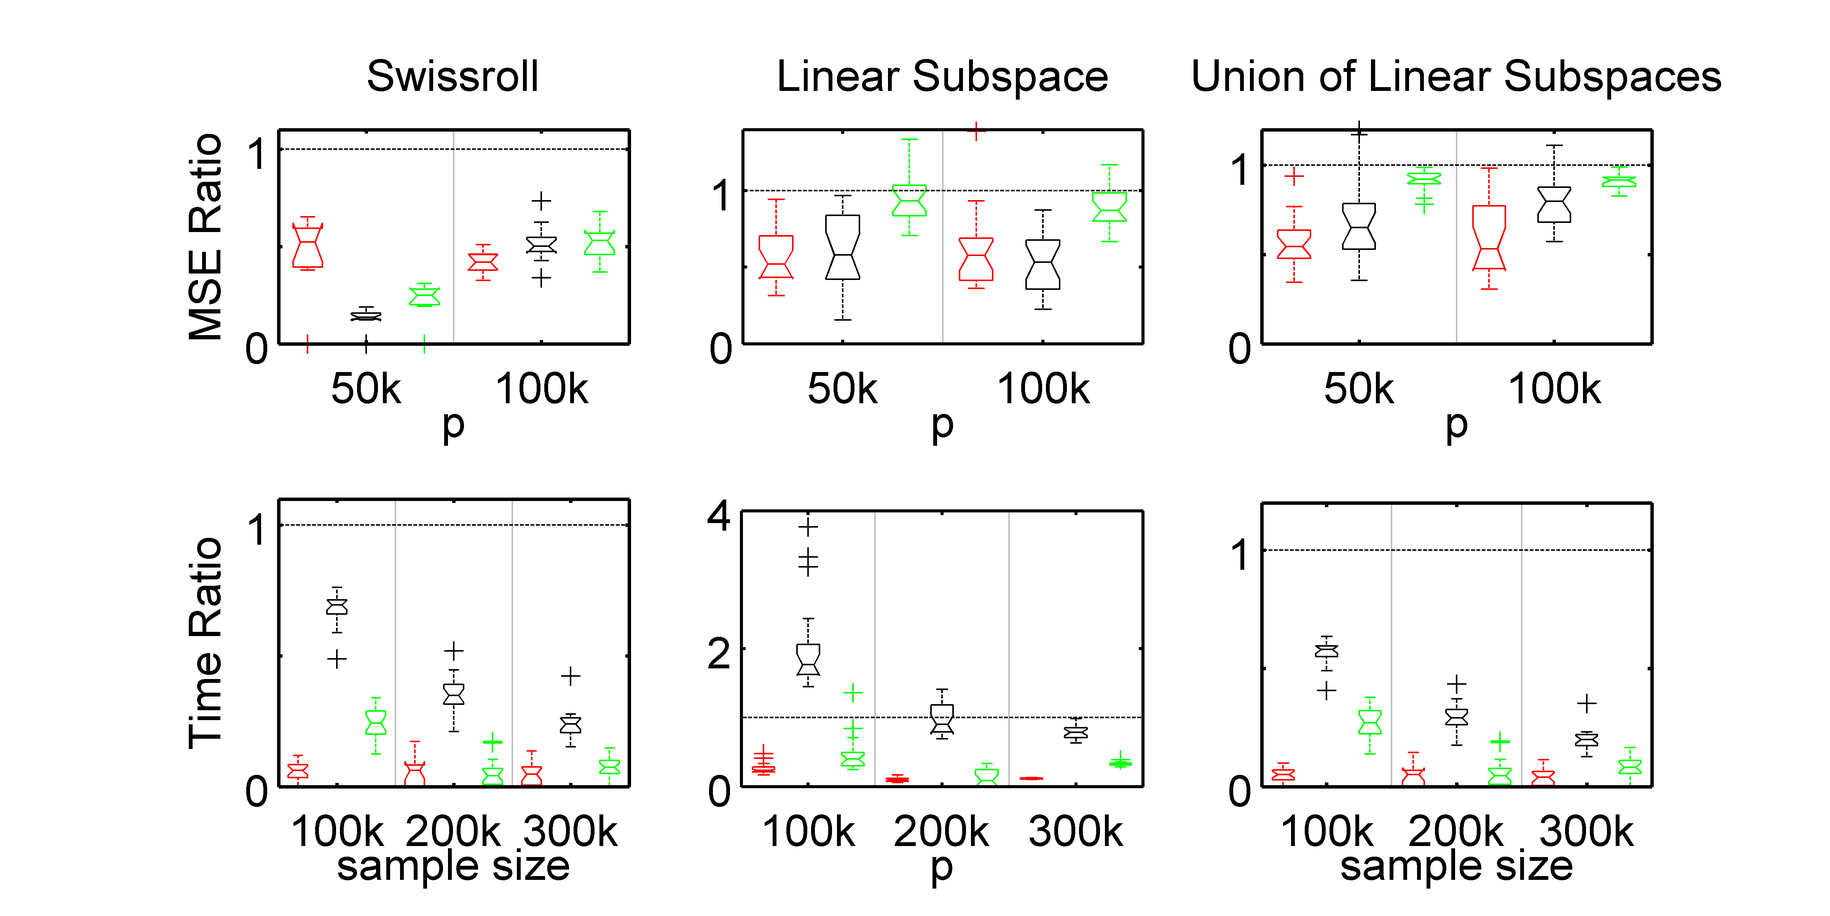
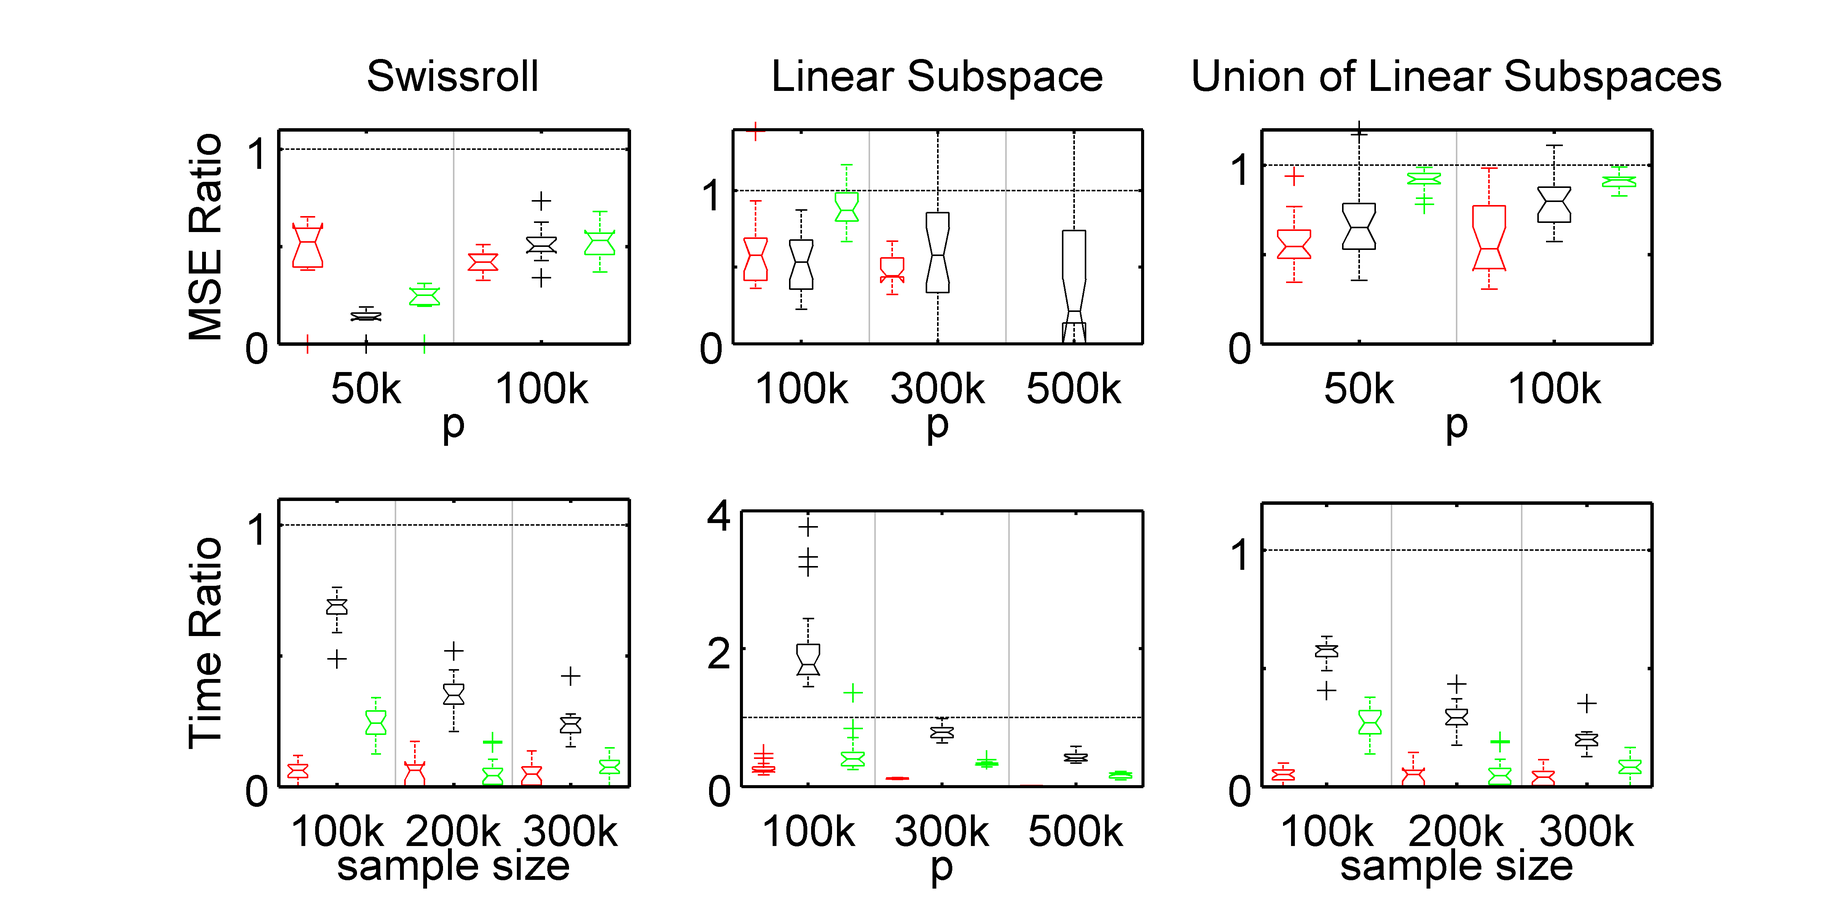
incorporated fracy comments, updated fig

diff --git a/nips/nipsMSB_dd.tex b/nips/nipsMSB_dd.tex
@@ -120,7 +120,7 @@ In fact, a significant downside of many divide-and-conquer algorithms is their p
 Let $X \from \Omega \to \mc{X} \subseteq \Real^p$ be a 
 $p$-dimensional Euclidean vector-valued predictor random variable, taking values $x \in \mc{X}$, with a marginal probability distribution $F_X$.  
 Similarly, let $Y \from \Omega \to \mc{Y}$ 
-be a $\mc{Y}$-valued target random variable, taking values $y \in \mc{Y}$, with a marginal probability distribution $F_Y$ (we will specify specific forms of $\mc{Y}$, e.g., $\mc{Y} \subseteq \Real^q$, below).  We assume that the pair $(X,Y)$ is sampled from a joint distribution, $F_{X,Y} \in \mc{F}$.
+be a $\mc{Y}$-valued target random variable, taking values $y \in \mc{Y}$, with a marginal probability distribution $F_Y$ (we will specify specific forms of $\mc{Y}$, e.g., $\mc{Y} \subseteq \Real^q$, below).  We assume that the pair $(X,Y)$ is sampled from a joint distribution, $F_{X,Y} \in \mc{F}$. Let $F_{Y|X}$ denote the conditional distribution, and $f_{y|x}$ denote the conditional density.
 
 For inferential expedience, we  posit the existence of  a latent random variable $\mb{\eta} \from \Omega \to \mc{M} \subseteq \mc{X}$, where $\mc{M}$ is only $d$ ``dimensional'' and $d \ll p$.   
 Note that $\mc{M}$ need not be a linear subspace of $\mc{X}$, rather, $\mc{M}$ could be, for example,  a union or affine subspaces, or a smooth compact Riemannian manifold.  Regardless of the nature of $\mc{M}$, we assume that we can approximately decompose the joint distribution as follows,  $F_{X,Y,\mb{\eta}}=F_{X,Y|\mb{\eta}}F_{\mb{\eta}} = F_{Y|X, \mb{\eta}} F_{X | \mb{\eta}} F_{\mb{\eta}} \approx F_{X|\mb{\eta}} F_{Y|\mb{\eta}} F_{\mb{\eta}}$.  In  words, we assume that the \emph{signal} approximately concentrates around a low-dimensional latent space, $F_{Y|X,\mb{\eta}}=F_{Y|\mb{\eta}}$.  Note that this is a much less restrictive assumption than the commonplace assumption in manifold learning that the marginal distribution $F_X$ concentrates around a low-dimensional latent space. 
@@ -164,11 +164,16 @@ Let $(\mc{W},\rho_W, F_W)$ be a measurable metric space, where $F_W$ is a Borel 
 
 Let $A_{j,k}=\{k' \in \mc{K}_{j'} : j' < j$ s.t. $C_{j,k} \subseteq C_{j',k'}\}$ denote the ancestors of $C_{j,k}$, and let $D_{j,k}=\{k' \in \mc{K}_{j'} : j' > j$ s.t. $C_{j',k'} \subseteq C_{j,k}\}$ denote the descendants of $C_{j,k}$.
 % Figure \ref{graph}(i) depicts a binary tree decomposition for some data (note that the tree need not be binary). 
-The result of this partitioning is that we can approximate $F_{Y|X}$ at each scale $j$ via a mixture over densities, $\mh{F}^j_{Y|X} \propto \sum_{k \in \mc{K}_j} \pi_{j,k} \mh{F}^{j,k}_{Y|X}$. 
-% \dd{change in \begin{equation}F_{Y|X} \approx \mh{F}_{Y|X}= \sum_{j \in \ZZ} \pi_{j,k_j(X)} \mh{F}_{j,k_j(X)} \label{eq:base}\end{equation}}. 
+In classical multiscale function estimation, at each scale, we would approximate the function via a mixture: $\mh{F}_j = \sum_{k \in \mc{K}_j} \omega_{j,k} \mh{F}_{j,k}$, where the $\{\omega_{j,k}\}_{j \in \mc{K}_j}$ are mixture weights \emph{within} a scale, such that $\sum_{k \in \mc{K}_j} \omega_{j,k}=1$.  Rather than choosing a scale, however, given a new observation, one can also mix \emph{across scales},  by placing a prior over scales.  In such a case, given a new observation $x$ for which we would like an estimate of $f_{y|x}$, we have the following approximation 
+\begin{align}
+\mh{f}_{y|x} \approx \sum_{C_{j',k'} \in A_{j,k}} \pi_{j',k'} f^{j',k'}_{y|x}	
+\end{align}
+where $\pi_{j',k'}$ are weights \emph{across scales} such that $\sum_{C_{j',k'} \in A_{j,k}} \pi_{j',k'}=1$.  Note that this latter approach is a generalization of the former, in that one could simply set the $\pi_{j,k}$'s to have unity mass at some $j$ for each scale and zero elsewhere, resulting in choosing a particular scale.
+
+ 
 
 \paragraph{Embeddings}
-At each scale, for each cell, we consider some embedding $\psi_{j,k} \from C_{j,k} \to \Xi$, where $(\mt{x},\mt{y}) \in (\mtc{X}, \mtc{Y})$.  Thus, rather than approximating $F_{Y|X}$ by a mixture of densities conditional on high-dimensional predictors, we can approximate $F_{Y|X}$ by a mixture of densities conditional on low-dimensional embeddings,  $F_{Y|X} \approx \mh{F}_{Y|X} \propto \sum_{j \in \ZZ, k \in \mc{K}_j} \pi_{j,k} \mt{F}^{j,k}$, where $\mt{y} | \mt{x} \sim \mt{F}^{j,k}$. 
+At each scale, for each cell, we consider some embedding $\psi_{j,k} \from C_{j,k} \to \Xi$, where $(\mt{x},\mt{y}) \in (\mtc{X}, \mtc{Y})$.  Thus, rather than approximating $F_{Y|X}$ by a mixture of densities conditional on high-dimensional predictors, we can approximate $F_{Y|X}$ by a mixture of densities conditional on low-dimensional embeddings. %,  $F_{Y|X} \approx \mh{F}_{Y|X} \propto \sum_{j \in \ZZ, k \in \mc{K}_j} \pi_{j,k} \mt{F}^{j,k}$, where $\mt{y} | \mt{x} \sim \mt{F}^{j,k}$. 
 
 \paragraph{Family} Each $\mt{F}^{j,k}$ is an element of a family of distributions, $\mc{F}^{j,k}$.  This family might be quite general, e.g., all possible conditional densities, or quite simple, e.g., Gaussian distributions.  Moreover, the family can adapt with $j$ or $k$, being more complex at the coarser scales (for which $n_{j,k}$'s are larger), and simpler for the finer scales (or partitions with fewer samples).
 
@@ -253,25 +258,29 @@ In order to assess the predictive performance of the proposed model, we consider
 
 \textbf{(1) Nonlinear Mixture}
 %
-We first consider a relatively simple yet nonlinear joint model:
-\begin{subequations}
-\begin{align}
-	Y|\eta &\sim   |\eta| \mc{N}(\mu_1,\sigma_1) + (1-|\eta|) \mc{N}(\mu_2,\sigma_2), \\
-	X_r|\eta  &\sim \mc{N}(\eta, \sigma_x), \qquad r \in \{1, 2, \ldots, p\}, \\
-	\eta  &\sim \sin(U(0,c)). %, \qquad \text{ where } \theta \sim U(0,1).
-\end{align}
-\end{subequations}
+We first consider a relatively simple yet nonlinear joint model, with a conditional Gaussian distribution
+	\mbox{$Y|\eta \sim  |\eta| \mc{N}(\mu_1,\sigma_1) + (1-|\eta|) \mc{N}(\mu_2,\sigma_2)$}, 
+	a marginal distribution for each dimension of $X$, $X_r|\eta  \sim \mc{N}(\eta, \sigma_x)$, 
+	$r \in \{1, 2, \ldots, p\}$, 
+	and a uniform distribution over the latent manifold $\eta  \sim \sin(U(0,c))$. %, \qquad \text{ where } \theta \sim U(0,1).
+% \begin{subequations}
+% \begin{align}
+% 	Y|\eta &\sim   |\eta| \mc{N}(\mu_1,\sigma_1) + (1-|\eta|) \mc{N}(\mu_2,\sigma_2), \\
+% 	X_r|\eta  &\sim \mc{N}(\eta, \sigma_x), \qquad r \in \{1, 2, \ldots, p\}, \\
+% 	\eta  &\sim \sin(U(0,c)). %, \qquad \text{ where } \theta \sim U(0,1).
+% \end{align}
+% \end{subequations}
 In the simulations we let $(\mu_1,\sigma_1)=(-2,1)$, $(\mu_2,\sigma_2)=(2,1)$, $\sigma_x=0.01$, and $c=20$, and $p=1000$. Thus, $F_{Y|X}$ is a highly nonlinear function of $X$, and even $\eta$, and $X$ is high-dimensional.  
 
 % \vspace{-8pt}
 \textbf{(2) Swissroll} 
 % 
-We then return to the swissroll example of Figure \ref{fig:swiss}; here we let $(\mu,\sigma)=(\eta,1)$ and   $p \in 1000 \times \{50, 100\}$.
+We then return to the swissroll example of Figure \ref{fig:swiss}; in Figure \ref{fig:boxplots} we show results for $(\mu,\sigma)=(\eta,1)$. % and   $p \in 1000 \times \{50, 100\}$.
 
 \textbf{(3) Linear Subspace} Letting $\Gamma \in \Real^{p+1 \times q}$ and $\Theta$ be an ${q \times d}$ ``diagonal'' matrix (meaning all entires other than the first $d < q$ elements of the diagonal are zero), we assume the following model:
 	$Y,X |\eta \sim \mc{N}_{p+1}(\Gamma \Theta \eta ,\Sigma_0)$,
 	where 	$\Gamma \sim \mc{S}_{p+1,d}$ indicates $\Gamma$ is uniformly sampled from the set of all orthonormal $d$ frames in $\Real^{p+1}$ (a Stiefel manifold), 
-	$\theta_{ii} \sim \mc{IG}(a_\theta,b_\theta) \text{ for } i \in \{1, \ldots, d\}$ and all other elements of $\Theta$ are zero, and $\eta  \sim \mc{N}_d(0, I)$.  In the simulation, we let $q=d=5$,   $(\alpha_\theta,\beta_\theta)=(\dd{??},\dd{??})$, and $p \in 1000 \times \{50, 70, 90, 100, 200, 300, 500\}$.
+	$\theta_{ii} \sim \mc{IG}(a_\theta,b_\theta) \text{ for } i \in \{1, \ldots, d\}$ and all other elements of $\Theta$ are zero, and $\eta  \sim \mc{N}_d(0, I)$.  In the simulation, we let $q=d=5$,   $(\alpha_\theta,\beta_\theta)=(\dd{??},\dd{??})$. %, and $p \in 1000 \times \{50, 70, 90, 100, 200, 300, 500\}$.
 
 
 % \vspace{-8pt}
@@ -279,7 +288,7 @@ We then return to the swissroll example of Figure \ref{fig:swiss}; here we let $
 This model is a direct extension of the linear subspace model, as it is a union of subspaces. We let the dimensionality of each subspace vary to demonstrate the generality of our procedure.  Specifically, we assume 	$Y,X |\eta \sim \sum_{g=1}^G \omega_g \mc{N}_{p+1}(\Gamma_g \Theta_g \eta ,\Sigma_0)$, $\omega \sim Dirichlet(\mb{\alpha})$ 
 	$\eta \sim \mc{N}_d(0, I)$, 
 where $\Gamma \sim \mc{S}_{p+1,g}$ and $\Theta_g$ is a ``diagonal'' with $\theta_{ii} \sim \mc{IG}(a_g,b_g)$ for  $i \in \{1, \ldots, g\}$, and the remaining elements of $\Theta$ are zero.
-In the simulation, we let $G=5$,  $\mb{\alpha}=(1, \ldots, 1)\T$,  $(\alpha_g,\beta_g)=(\alpha_\theta,\beta_\theta)$ as above, for  $p \in 1000 \times \{50, 100\}$.
+In the simulation, we let $G=5$,  $\mb{\alpha}=(1, \ldots, 1)\T$,  $(\alpha_g,\beta_g)=(\alpha_\theta,\beta_\theta)$ as above. %, for  $p \in 1000 \times \{50, 100\}$.
   
 % \vspace{-8pt}
 
@@ -291,7 +300,7 @@ We assessed the predictive performance of the proposed method on two very differ
 
 In the first experiment we investigated the extent to which we could predict creativity (as measured via the Composite Creativity Index \cite{Arden2010}).   For each subject, we estimate a $70$ vertex undirected weighted brain-graph using the Magnetic Resonance Connectome Automated Pipeline \cite{MRCAP11} from diffusion tensor imaging data \cite{Mori2006}. Because our graphs are undirected and lack self-loops, we have a total of $p=\binom{70}{2}=2,415$ potential weighted edges. The vector of covariates consists in the logarithm of the total number of connections between all pairs of cortical regions. 
 
-The second dataset comes from a resting-state functional magnetic resonance experiment as part of the Autism Brain Imaging Data Exchange \cite{Autism}.  We selected the Yale Child Study Center for analysis.  Each brain-image was processed using the Configurable Pipepline for Analysis of Connectomes \cite{cpac}. For each subject we computed a measure of normalized power at each voxel called fALFF \cite{Zou2008}.  To ensure the existence of nonlinear signal relating these predictors, we let $y_i$ correspond to an estimate of overall head motion in the scanner, called mean framewise displacement (FD) computed as described in Power et al. \cite{power}. In total, there were $p=10^6$  voxels.
+The second dataset comes from a resting-state functional magnetic resonance experiment as part of the Autism Brain Imaging Data Exchange \cite{Autism}.  We selected the Yale Child Study Center for analysis.  Each brain-image was processed using the Configurable Pipepline for Analysis of Connectomes \cite{cpac}. For each subject we computed a measure of normalized power at each voxel called fALFF \cite{Zou2008}.  To ensure the existence of nonlinear signal relating these predictors, we let $y_i$ correspond to an estimate of overall head motion in the scanner, called mean framewise displacement (FD) computed as described in Power et al. \cite{power}. In total, there were $p=902,629$ voxels. 
 
 \subsection{Evaluation Criteria}
 
@@ -302,13 +311,14 @@ For each simulation scenario, we sampled multiple datasets and compute the \emph
 All experiments were performed on a typical workstation, Intel Core i7-2600K Quad-Core Processor with  8192 MB of RAM.
 
 
+
 \section{Results}
 
 \subsection{Illustrative Example} \label{sub:ill}
 
-The middle and right panels of Figure \ref{fig:swiss} depict the quality of partitioning and density estimation for the swissroll example described in \S \ref{sec:setting}, with the ambient dimension $p=1000$ and the manifold dimension $d=1$.  We sampled $n=10\,000$ samples for this illustration. At scale 3, we have $4=2^{3-1}$ partitions and at scale 4, we have $8=2^{4-1}$ (note that the partition tree, in general, need not be binary).  The top panels are color coded to indicate which  $x_i$'s fall into which partition.  Although imperfect, it should be clear that the data are partitioned very well.  The bottom panels show the resulting estimate of the posteriors at the two scales.  These posteriors are ``piecewise linear'' in a certain sense, as they are invariant to the manifold coordinate within a given partition.  
+The middle and right panels of Figure \ref{fig:swiss} depict the quality of partitioning and density estimation for the swissroll example described in \S \ref{sec:setting}, with the ambient dimension $p=1000$ and the manifold dimension $d=1$.  We sampled $n=10^4$ samples for this illustration. At scale 3, we have $4$ partitions and at scale 4, we have $8$ (note that the partition tree, in general, need not be binary).  The top panels are color coded to indicate which  $x_i$'s fall into which partition.  Although imperfect, it should be clear that the data are partitioned very well.  The bottom panels show the resulting estimate of the posteriors at the two scales.  These posteriors are ``piecewise linear'' in a certain sense, as they are invariant to the manifold coordinate within a given partition.  
 
-To obviate the need to choose a scale to use to make a prediction, we choose to adopt a Bayesian approach and integrate across scales.  Figure \ref{plotDensity} shows the estimated density of two observations of Model (1).  Posteriors of the conditional density  $F_{Y|X}$  were computed various sample sizes. Figure \ref{plotDensity} suggests that our estimate of $F_{Y|X}$ approaches the true density as the number of observations in the training set increases. We are unable to compare our strategy for posterior estimation to previous literature because we are unaware of previous Bayesian approaches for this problem that scale up to problems of this size. Therefore, we numerically compare the performance of our point-estimates (which we define as the posterior mode of $\mh{F}_{Y|X}$) with the predictions of the competitor algorithms.
+To obviate the need to choose a scale to use to make a prediction, we choose to adopt a Bayesian approach and integrate across scales.  Figure \ref{plotDensity} shows the estimated density of two observations of model (1).  Posteriors of the conditional density  $F_{Y|X}$  were computed various sample sizes. Figure \ref{plotDensity} suggests that our estimate of $F_{Y|X}$ approaches the true density as the number of observations in the training set increases. We are unable to compare our strategy for posterior estimation to previous literature because we are unaware of previous Bayesian approaches for this problem that scale up to problems of this size. Therefore, we numerically compare the performance of our point-estimates (which we define as the posterior mode of $\mh{F}_{Y|X}$) with the predictions of the competitor algorithms.
 
 \begin{figure}[h!]
 \centering
@@ -316,7 +326,7 @@ To obviate the need to choose a scale to use to make a prediction, we choose to 
 \includegraphics[width=120mm]{../figs/ch3_density.eps}
  \vskip -15pt 
 % \includegraphics[width=90mm,height=80mm]{densityestimate.eps}
-\caption{Illustrative example suggesting that our posterior estimates of the conditional density are converging as $n$ increases even when $F_{Y|\eta}$ is highly nonlinear and $F_{X|\eta}$ is very high-dimensional.  We simulated data according to Model (1) with parameters $(\mu_1,\sigma_1)=(-2,1)$, $(\mu_2,\sigma_2)=(2,1)$, $\sigma_x=0.01$, and $c=20$ for different sample sizes. True (red) and estimated (black) density ($50$th percentile: solid line, $2.5$th and $97.5$th percentiles: dashed lines) for two data points $(I, II)$ considering different training set size (a: $n=100$, b: $n=150$, c: $n=200$). } \label{plotDensity}
+\caption{Illustrative example suggesting that our posterior estimates of the conditional density are converging as $n$ increases even when $F_{Y|\eta}$ is highly nonlinear and $F_{X|\eta}$ is very high-dimensional.  We simulated data according to model (1) with parameters $(\mu_1,\sigma_1)=(-2,1)$, $(\mu_2,\sigma_2)=(2,1)$, $\sigma_x=0.01$, and $c=20$ for different sample sizes. True (red) and estimated (black) density ($50$th percentile: solid line, $2.5$th and $97.5$th percentiles: dashed lines) for two data points $(I, II)$ considering different training set size (a: $n=100$, b: $n=150$, c: $n=200$). } \label{plotDensity}
 \end{figure}
 
 
@@ -362,7 +372,7 @@ MSB outperforms both CART, Lasso, and PC regression in all three scenarios regar
 
 
 
-Table \ref{real} shows the mean and standard deviation of point-estimate predictions per subject (using leave-one-out) for the two neuroscience applications that we investigated: (i) predicting creativity from diffusion MRI (creativity) and, (ii) predicting head motion based on functional MRI (movement).  For the creativity application, $p$ was relatively small, ``merely'' $2,415$, so we could run Lasso, CART, and random forests (RF) \cite{Brieman2001}.  For the movement application, $p$ was greater than $100\,000$. 
+Table \ref{real} shows the mean and standard deviation of point-estimate predictions per subject (using leave-one-out) for the two neuroscience applications that we investigated: (i) predicting creativity from diffusion MRI (creativity) and, (ii) predicting head motion based on functional MRI (movement).  For the creativity application, $p$ was relatively small, ``merely'' $2,415$, so we could run Lasso, CART, and random forests (RF) \cite{Brieman2001}.  For the movement application, $p$ was nearly one million. 
 
 For both applications, MSB yielded improved predictive accuracy over all competitors.  Although CART and Lasso both yielded better performance on the relatively low-dimensional predictor example (creativity), their computational scaling was poor, such that CART yielded a memory fault on the higher-dimensional case, and Lasso required substantially more time than MSB.  
 
@@ -387,9 +397,12 @@ creativity & 108 & 2,415 & MSB &$0.56 \, (\dd{??})$ &  $1.1 \, (0.02)$\\
  &&& CART & $1.10 \, (\dd{??}) $ &  $0.9 \, (0.01)$\\
 &&& Lasso & $0.63 \, (\dd{??})$  &  $0.40 \, (0.10)$\\
 &&& RF & $0.57 \, (\dd{??})$ &   $78.2 \, (0.59)$\\
+&&& PC regression & \dd{??,  (??)} & \dd{?? , (??)}
 \\
- movement & 56 & $10^5$& MSB &$0.76 \, (\dd{??})$  & $20.98 \, (2.31)$\\
+\hline
+ movement & 56 & $\approx 10^6$& MSB &$0.76 \, (\dd{??})$  & $20.98 \, (2.31)$\\
  &&& Lasso & $1.02 \, (\dd{??})$ & $96.18 \, (9.66)$\\
+&&& PC regression & \dd{??,  (??)} & \dd{?? , (??)}\\
 \hline
 \end{tabular}
 \end{sc}

diff --git a/data/Boxplots/joint_boxplots.m b/data/Boxplots/joint_boxplots.m
@@ -122,10 +122,11 @@ set(xlabhh,'Position',ass.Position+[0 -200 0]);
 %%%%%%%%%%%%%%%%%%%%%%%%%%
 
 
-% clear
+clear
 time2=([1,5,7,9,10,20,30,50,70].*10);
 
-% --- 10,0000 predictors
+% 1 --- 10,0000 predictors 
+
 load linear/dataFactor_k5_p10000_PP_cart
 mseCart(1,1:19)=MSE;
 timeCart(1,1:19)=(time);
@@ -141,7 +142,8 @@ timeLassoB(1,:)=time./timeLasso(1,:);
 timeCartB(1,:)=time./timeCart(1,:);
 timeMSB(1,:)=(time);
 
-% --- 50,0000 predictors
+% 2 --- 50,0000 predictors
+
 
 load linear/dataFactor_k5_p50000_PP_pc
 msePC(2,:)=MSE;
@@ -165,7 +167,7 @@ timeCartB(2,:)=time./timeCart(2,:);
 timeMSB(2,:)=(time);
 
 
-% --- 70,0000 predictors
+% 3 --- 70,0000 predictors
 load linear/dataFactor_k5_p70000_PP_n100_pc
 msePC(3,:)=MSE;
 timePC(3,:)=(time);
@@ -188,7 +190,7 @@ timeMSB(3,:)=(time);
 timePCB(3,:)=time./timePC(3,:);
 
 
- % --- 90,0000 predictors
+ % 4 --- 90,0000 predictors
 
 load linear/dataFactor_k5_p90000_PP_n100_pc
  msePC(4,:)=MSE;
@@ -213,7 +215,7 @@ timePCB(4,:)=time./timePC(4,:);
 
 
 
- % --- 100,0000 predictors
+ % 5 --- 100,0000 predictors
 load linear/dataFactor_k5_p100000_PP_pc
 msePC(5,:)=MSE;
 timePC(5,:)=(time);
@@ -237,7 +239,7 @@ timePCB(5,:)=time./timePC(5,:);
 
 
 
-%% --- 200,0000 predictors
+%% 6 --- 200,0000 predictors
 load linear/dataFactor_k5_p200000_PP_10rep_n100_pc
 msePC(6,1:10)=(MSE(1:10));
 timePC(6,1:10)=(time(1:10));
@@ -282,7 +284,7 @@ timeMSB(6,11:20)=(time(1:10));
 
 
 
-%% --- 300,0000 predictors
+%% 7 --- 300,0000 predictors
 load linear/dataFactor_k5_p300000_PP_n100_cart MSE time
 mseCart(7,:)=MSE;
 timeCart(7,:)=time;
@@ -315,7 +317,7 @@ timeMSB(7,11:20)=(time(1:10));
 timeCartB(7,11:20)=(time(1:10))./timeCart(7,11:20);
 timePCB(7,11:20)=(time(1:10))./timePC(7,11:20);
 
-%% --- 500,0000 predictors
+%% 8 --- 500,0000 predictors
 load linear/dataFactor_k5_p500000_PP_n100_cart MSE time
 timeCart(8,:)=time;
 
@@ -349,14 +351,15 @@ timeMSB(8,11:20)=(time(1:10));
 set(0,'DefaultAxesFontName','Arial','DefaultAxesFontSize',14)
 
 subplot(2,3,2)
-index=[2 5] ; %5
+index=[5 7 8] ; %5
 month = repmat(time2(index),1,3);
+msePC=[msePC; nan(3,20)];
 simobs = [repmat({'Cart'},1,length(index)),repmat({'Lasso'},1,length(index)),repmat({'PC'},1,length(index))];
 h=boxplot([mseCart(index,:)',mseLasso(index,:)',msePC(index,:)'],{month,simobs},'colors',repmat('rkg',1,length(index)),'factorseparator',[1],'labelverbosity','minor','plotstyle','traditional','labelorientation','horizontal','notch','on','symbol','+');
 ylim([0,1.4])
 %set(gca,'xtick',1.5:3.1:15)
 % set(gca,'xtick',[2:3:15],'xticklabel',time2(index))
-set(gca,'xtick',[2:3:9],'xticklabel',[{'50k'}; {'100k'}])
+set(gca,'xtick',[2:3:20],'xticklabel',[{'100k'}; {'300k'}; {'500k'}])
 set(gca,'ytick',[0,0.5,1],'yticklabel',[{0}; {''}; {1}])
 % set(h(5,:),'Visible','off')
 % xlabel('p (x1000)','fontsize',14)
@@ -378,14 +381,15 @@ xlabel('p','fontsize',14)
 
 
 subplot(235), %cla
-index=[5 6 7];
+% index=[5 6 7] ; %5
 month = repmat(time2(index),1,3);
 simobs = [repmat({'Cart'},1,length(index)),repmat({'Lasso'},1,length(index)),repmat({'PC'},1,length(index))];
+timePCB=[timePCB; nan(3,20)];
 h=boxplot([timeCartB(index,:)',timeLassoB(index,:)',timePCB(index,:)'],{month,simobs},'colors',repmat('rkg',1,length(index)),'factorseparator',[1],'labelverbosity','minor','plotstyle','traditional','labelorientation','horizontal','boxstyle','outline','notch','on','symbol','+');
 ylim([0,4])
 xlabel('p','fontsize',14)
 % set(gca,'xtick',[2:3:15],'xticklabel',time2(index))
-set(gca,'xtick',[2:3:9],'xticklabel',[{'100k'}; {'200k'}; {'300k'}])
+set(gca,'xtick',[2:3:20],'xticklabel',[{'100k'}; {'300k'}; {'500k'}])
 set(gca,'LineWidth',1.05)
 set(gca,'FontSize',14)
 hold on
@@ -398,13 +402,13 @@ set(gca,'OuterPosition',ass.OuterPosition+[-0.02 0 0.02 0.005])
 %%%%%%%%%%%%%%%%%%%%%%%%
 
 
-% clear 
+clear 
 clc
 
 
 time2=([5,10,20,30,50].*10);
 
-% --- 50,0000 predictors
+% 1 --- 50,0000 predictors
 load MFA/MFA_p50000_N5_PP_n100_pc MSE time
 msePC(1,:)=(MSE);
 timePC(1,:)=(time);
@@ -426,7 +430,7 @@ timeMSB(1,:)=(time);
 msePC(1,:)=(MSE)./msePC(1,:);
 timePCB(1,:)=time./timePC(1,:);
 
-% --- 100,0000 predictors
+% 2 --- 100,0000 predictors
 load MFA/MFA_p100000_N5_PP_n100_pc MSE time
 msePC(2,:)=(MSE);
 timePC(2,:)=(time);

diff --git a/nips-supplement/nipsMSB_supplement.tex b/nips-supplement/nipsMSB_supplement.tex
@@ -158,6 +158,17 @@ with $f\left(y_{n+1}|x_{n+1},\Omega\right)$ defined as in (1) and $\Omega$ being
 \end{picture} \caption{(i) Multiscale partition of the data. (ii) Path through the tree for $x_i \in \Real^p$. (iii) Conditional density of $y_i$ given $x_i$ defined as a convex combination of densities along the path.}\label{graph}
 \end{figure}
 
+\subsection{Competitor Algorithms}
+
+As we are unaware of other methods, even frequentist, that estimate posteriors with such high-dimensional predictors, we compare point estimates of our approach with other moderately regression algorithms.  In particular, we elected to compare against the following:
+\begin{description}
+	\item[Lass] \dd{provide a 1 sentence explanation for each for how we set the hyperparameters}
+	\item[CART]
+	\item[Random Forest (RF)]
+	\item[PC Regression] 
+\end{description}
+
+
 
 \section{Synthetic examples}
 
